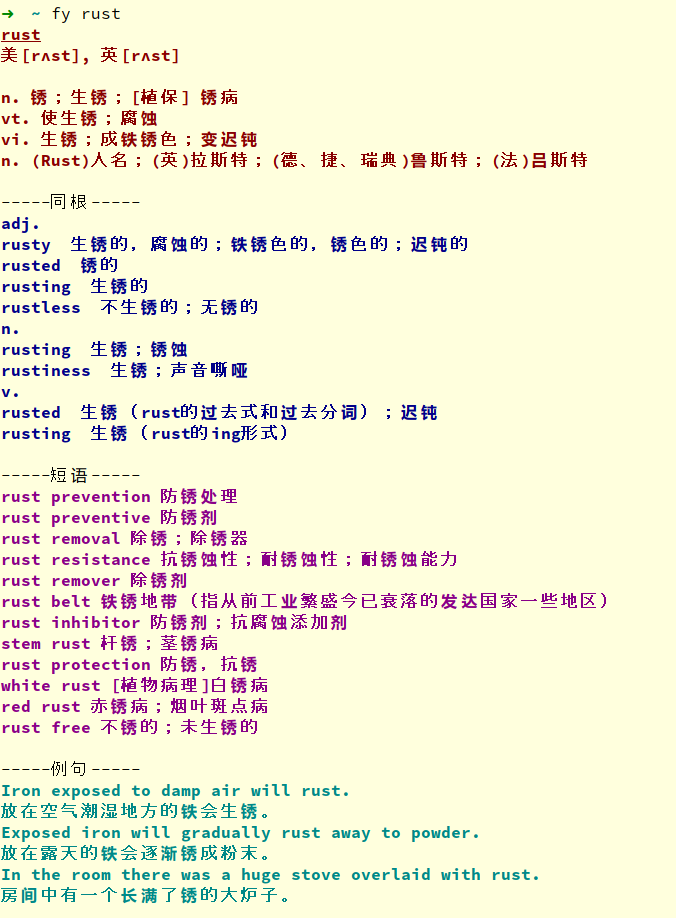
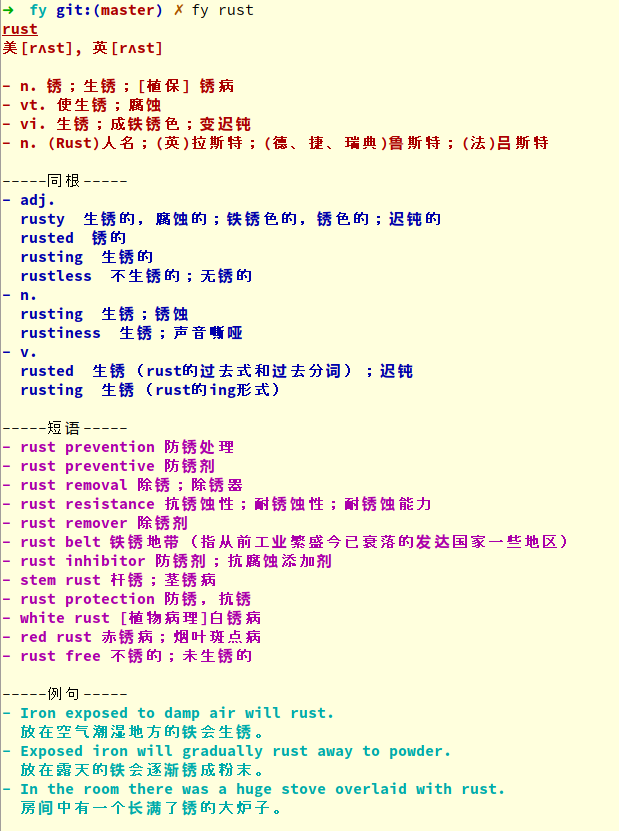
polish

diff --git a/src/objs.rs b/src/objs.rs
@@ -130,27 +130,18 @@ struct ec_i {
     i: Vec<String>
 }
 
-impl phrs {
+impl ec {
     fn text(&self) -> String {
         let mut result = String::new();
-        self.phrs.iter().for_each(|one| {
-            result.push_str(&one.phr.headword.l.i);
-            result.push_str(" ");
-            result.push_str(&one.phr.trs[0].tr.l.i);
-            result.push_str("\n");
-        });
-        result
-    }
-}
-
-impl blng_sents_part {
-    fn text(&self) -> String {
-        let mut result = String::new();
-        self.sentence_pair.iter().for_each(|one| {
-            result.push_str(&one.sentence);
-            result.push_str("\n");
-            result.push_str(&one.sentence_translation);
-            result.push_str("\n");
+        self.word.iter().for_each(|x| {
+            result.push_str(
+                format!("美[{}], 英[{}]\n\n",
+                        x.usphone.as_deref().unwrap_or(""),
+                        x.ukphone.as_deref().unwrap_or("")).as_str()
+            );
+            x.trs.iter().for_each(|y| {
+                result.push_str(format!("- {}\n", &y.tr[0].l.i[0]).as_str());
+            })
         });
         result
     }
@@ -160,33 +151,35 @@ impl rel_word {
     fn text(&self) -> String {
         let mut result = String::new();
         self.rels.iter().for_each(|i| {
-            result.push_str(&i.rel.pos);
-            result.push_str("\n");
+            result.push_str(format!("- {}\n", &i.rel.pos).as_str());
             i.rel.words.iter().for_each(|x| {
-                result.push_str(&x.word);
-                result.push_str(" ");
-                result.push_str(&x.tran);
-                result.push_str("\n");
+                result.push_str(format!("  {} {}\n", &x.word, &x.tran).as_str());
             });
         });
         result
     }
 }
 
-impl ec {
+impl phrs {
     fn text(&self) -> String {
         let mut result = String::new();
-        self.word.iter().for_each(|x| {
-            result.push_str(
-                format!("美[{}], 英[{}]",
-                         x.usphone.as_deref().unwrap_or(""),
-                         x.ukphone.as_deref().unwrap_or("")).as_str()
+        self.phrs.iter().for_each(|one| {
+            result.push_str(format!("- {} {}\n",
+                                    &one.phr.headword.l.i,
+                                    &one.phr.trs[0].tr.l.i).as_str()
             );
-            result.push_str("\n\n");
-            x.trs.iter().for_each(|y| {
-                result.push_str(&y.tr[0].l.i[0]);
-                result.push_str("\n");
-            })
+        });
+        result
+    }
+}
+
+impl blng_sents_part {
+    fn text(&self) -> String {
+        let mut result = String::new();
+        self.sentence_pair.iter().for_each(|one| {
+            result.push_str(format!("- {}\n  {}\n",
+                                    &one.sentence,
+                                    &one.sentence_translation).as_str());
         });
         result
     }
